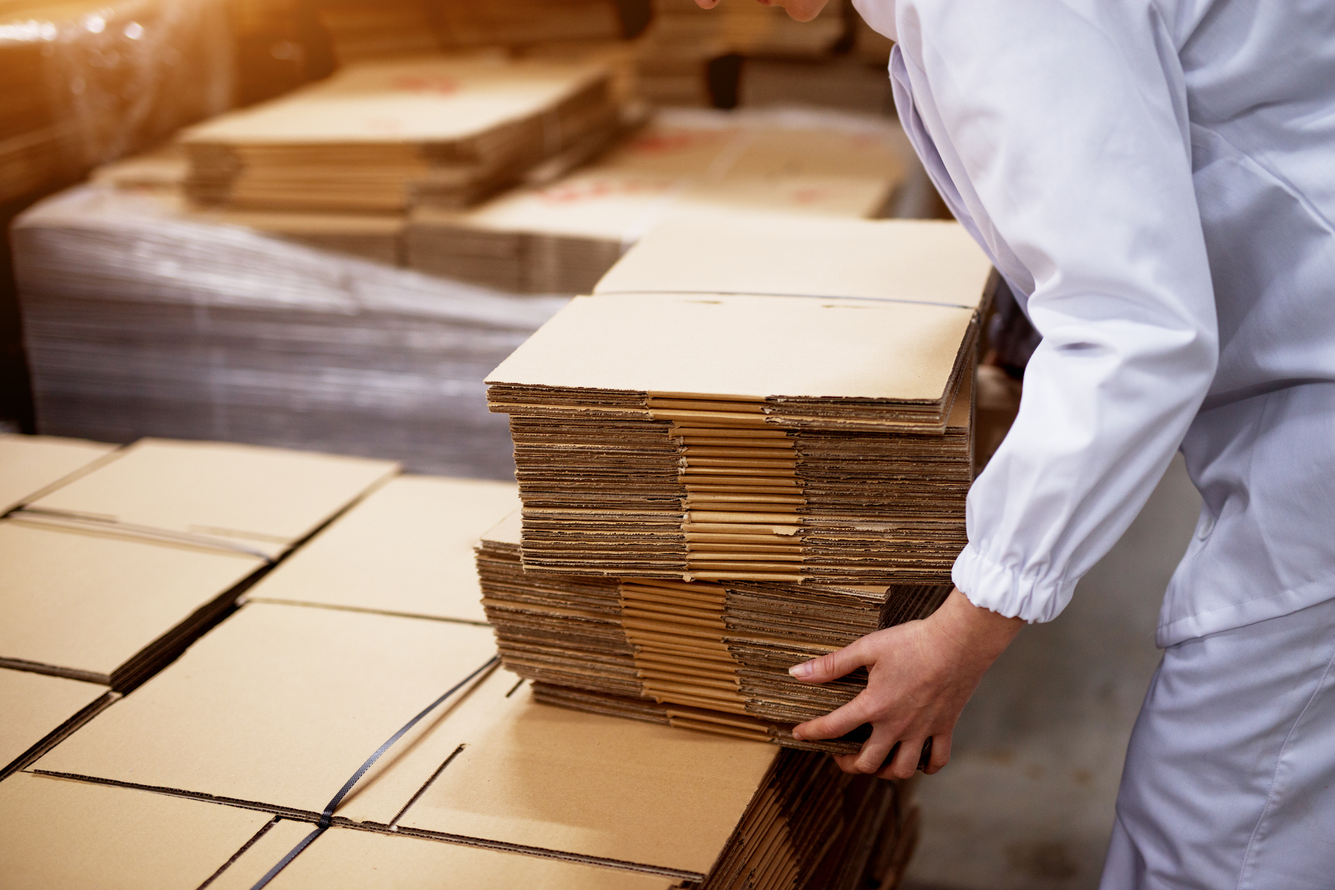
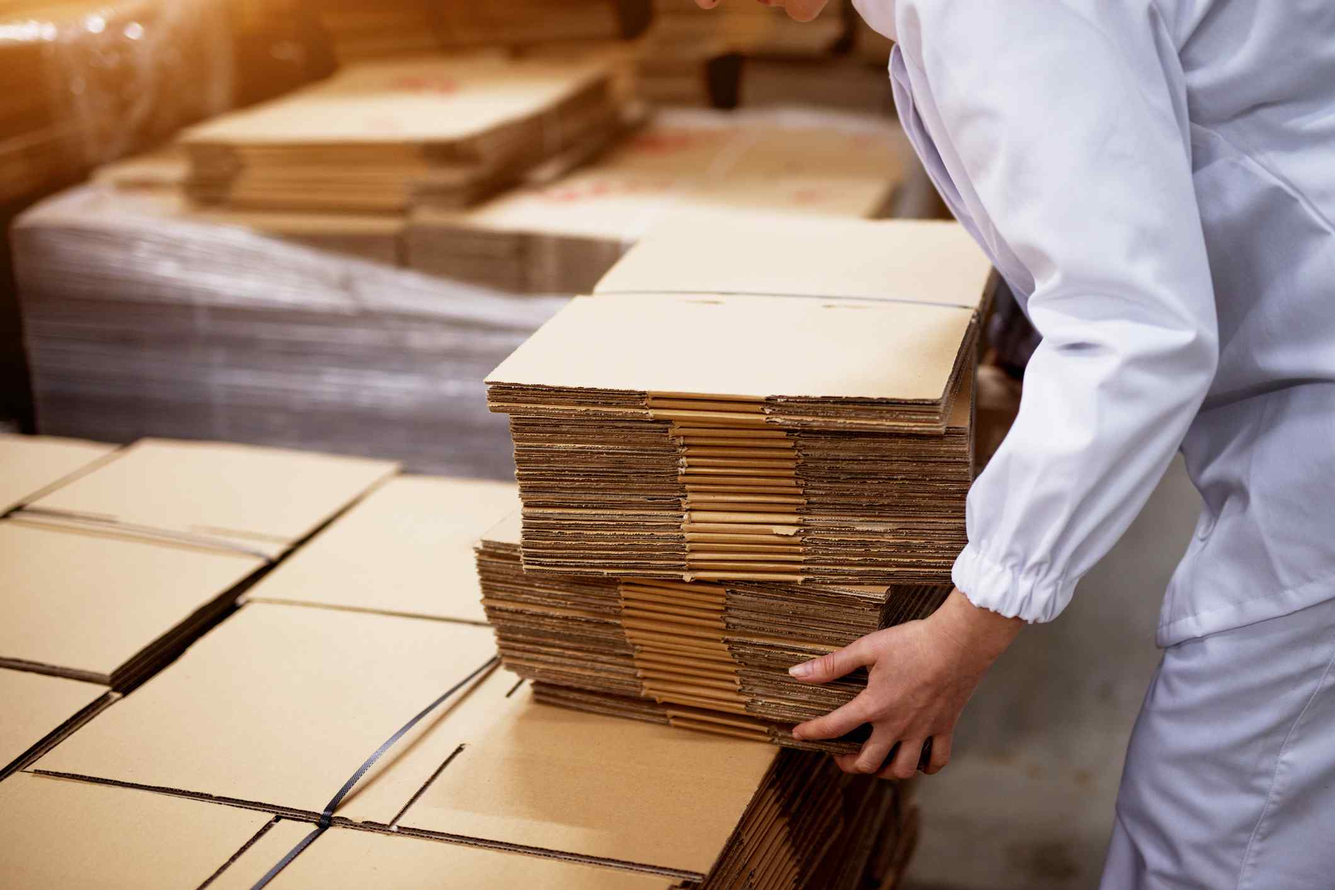
Optimized images

diff --git a/src/layouts/partials/PageHeader.tsx b/src/layouts/partials/PageHeader.tsx
@@ -1,5 +1,9 @@
+"use client";
+
+import { useEffect, useState } from "react";
 import Breadcrumbs from "@/components/Breadcrumbs";
 import { humanize } from "@/lib/utils/textConverter";
+import Image from "next/image";
 
 const PageHeader = ({
   title,
@@ -10,40 +14,73 @@ const PageHeader = ({
   subtitle?: string;
   image?: string;
 }) => {
+  const [scrollY, setScrollY] = useState(0);
+
+  // Handle scroll effect for parallax
+  useEffect(() => {
+    const handleScroll = () => {
+      setScrollY(window.scrollY);
+    };
+
+    window.addEventListener("scroll", handleScroll);
+
+    return () => {
+      window.removeEventListener("scroll", handleScroll);
+    };
+  }, []);
+
+  const parallaxStyle = {
+    transform: `translateY(${scrollY * 0.6}px)`, // Adjust the scroll speed (0.6 for a parallax effect)
+  };
   return (
     <section className="relative">
       <div className="container text-center">
         <div
-          className={`rounded-2xl px-8 py-14 ${
-            image
-              ? "bg-cover bg-bottom bg-no-repeat"
-              : "bg-gradient-to-b from-light-green to-theme-light"
-          }`}
-          style={
-            image
-              ? {
-                  backgroundImage: `linear-gradient(to right, rgba(0, 0, 0, 0.5), rgba(0, 0, 0, 0.1)), url(${image})`,
-                  backgroundAttachment: "fixed", // Makes the image fixed for parallax effect
-                }
-              : {}
-          }
+          className={`relative rounded-2xl px-8 py-14 overflow-hidden ${
+            image ? "" : "bg-gradient-to-b from-light-green to-theme-light"
+          }}
+        }`}
         >
-          <h1 className={`${image ? "text-white" : "text-dark-grey"}`}>
-            {humanize(title)}
-          </h1>
-          <p
-            className={`sm:text-xl sm:col-7 mx-auto ${
-              image ? "text-white" : "text-dark-grey"
-            }`}
-          >
-            {subtitle ? humanize(subtitle) : ""}
-          </p>
-          <Breadcrumbs
-            className={`mt-6 text-lg ${
-              image ? "text-white" : "text-dark-grey"
-            }`}
-            spanClassName={`${image ? "text-white" : "text-primary"}`}
-          />
+          {/* Parallax Image */}
+          {image && (
+            <div
+              className="absolute inset-0 w-full h-full"
+              style={{ zIndex: -1 }}
+            >
+              <Image
+                src={image}
+                alt="Image header"
+                fill
+                priority // Ensures the image is loaded with high priority
+                style={parallaxStyle} // Apply the parallax effect
+                className="object-cover"
+              />
+              <div
+                className="absolute inset-0 bg-gradient-to-r from-black/45 to-black/10"
+                style={{ zIndex: 0 }}
+              />
+            </div>
+          )}
+
+          {/* Title, Subtitle, and Breadcrumbs */}
+          <div className="relative">
+            <h1 className={`${image ? "text-white" : "text-dark-grey"}`}>
+              {humanize(title)}
+            </h1>
+            <p
+              className={`sm:text-xl sm:col-7 mx-auto ${
+                image ? "text-white" : "text-dark-grey"
+              }`}
+            >
+              {subtitle ? humanize(subtitle) : ""}
+            </p>
+            <Breadcrumbs
+              className={`mt-6 text-lg ${
+                image ? "text-white" : "text-dark-grey"
+              }`}
+              spanClassName={`${image ? "text-white" : "text-primary"}`}
+            />
+          </div>
         </div>
       </div>
     </section>

diff --git a/src/app/private-label-co-packing/page.tsx b/src/app/private-label-co-packing/page.tsx
@@ -17,8 +17,11 @@ const PrivateLabelCoPacking = () => {
     meta_title,
     description,
     image1,
+    alt1,
     image2,
+    alt2,
     image3,
+    alt3,
     private_label_co_packing_title,
     private_label_co_packing_content,
     private_label_co_packing_sub_title,
@@ -65,10 +68,10 @@ const PrivateLabelCoPacking = () => {
                       <div className="w-1/2">
                         <Image
                           src={image1}
-                          alt="Ninth Ave Foods Warehouse"
+                          alt={alt1}
                           className="w-full h-full object-cover rounded-xs"
-                          width={2500}
-                          height={2500}
+                          width={2400}
+                          height={1500}
                           priority
                         />
                       </div>
@@ -77,20 +80,20 @@ const PrivateLabelCoPacking = () => {
                         <div className="flex-1">
                           <Image
                             src={image2}
-                            alt="Ninth Ave Foods Warehouse"
+                            alt={alt2}
                             className="w-full h-full object-cover rounded-xs"
-                            width={2500}
-                            height={2500}
+                            width={2400}
+                            height={1500}
                             priority
                           />
                         </div>
                         <div className="flex-1">
                           <Image
                             src={image3}
-                            alt="Ninth Ave Foods Warehouse"
+                            alt={alt3}
                             className="w-full h-full object-cover rounded-xs"
-                            width={2500}
-                            height={2500}
+                            width={2400}
+                            height={1500}
                             priority
                           />
                         </div>

diff --git a/src/content/private-label-co-packing/_index.md b/src/content/private-label-co-packing/_index.md
@@ -3,8 +3,11 @@ title: "Private Label & Co-Packing"
 meta_title: ""
 description: "this is meta description"
 image1: "/images/gallery/gallery-2.jpg"
+alt1: "Refrigerated cold storage"
 image2: "/images/gallery/gallery-4.jpg"
+alt2: "Forklift driver loading trailer"
 image3: "/images/private-label-co-packing-2.jpg"
+alt3: "Carton of bottles"
 link: "/contact"
 
 private_label_co_packing_title: "Your Trusted Partner in Custom Packaging"
@@ -13,5 +16,5 @@ private_label_co_packing_content: "At __**Ninth Avenue Foods**__ we believe that
 private_label_co_packing_sub_title: "Our Expert Team for Unmatched Taste and Quality in Food Manufacturing"
 private_label_co_packing_sub_content: "If you’d like to know more about our capabilities and offerings, please [__**contact us**__](/contact). Our expert team is committed to achieving the exact taste and quality that your customers love with a level of personal care and attention that is unmatched in the industry."
 
-page_header_image: "/images/private-label-co-packing-1.jpg"
+page_header_image: "/images/private-label-co-packing.jpg"
 ---

diff --git a/src/content/contact/_index.md b/src/content/contact/_index.md
@@ -3,5 +3,5 @@ title: "Contact Us"
 meta_title: ""
 description: "this is meta description"
 draft: false
-page_header_image: "/images/istock-bottles.jpg"
+page_header_image: "/images/contact-us-image-edited.jpg"
 ---
